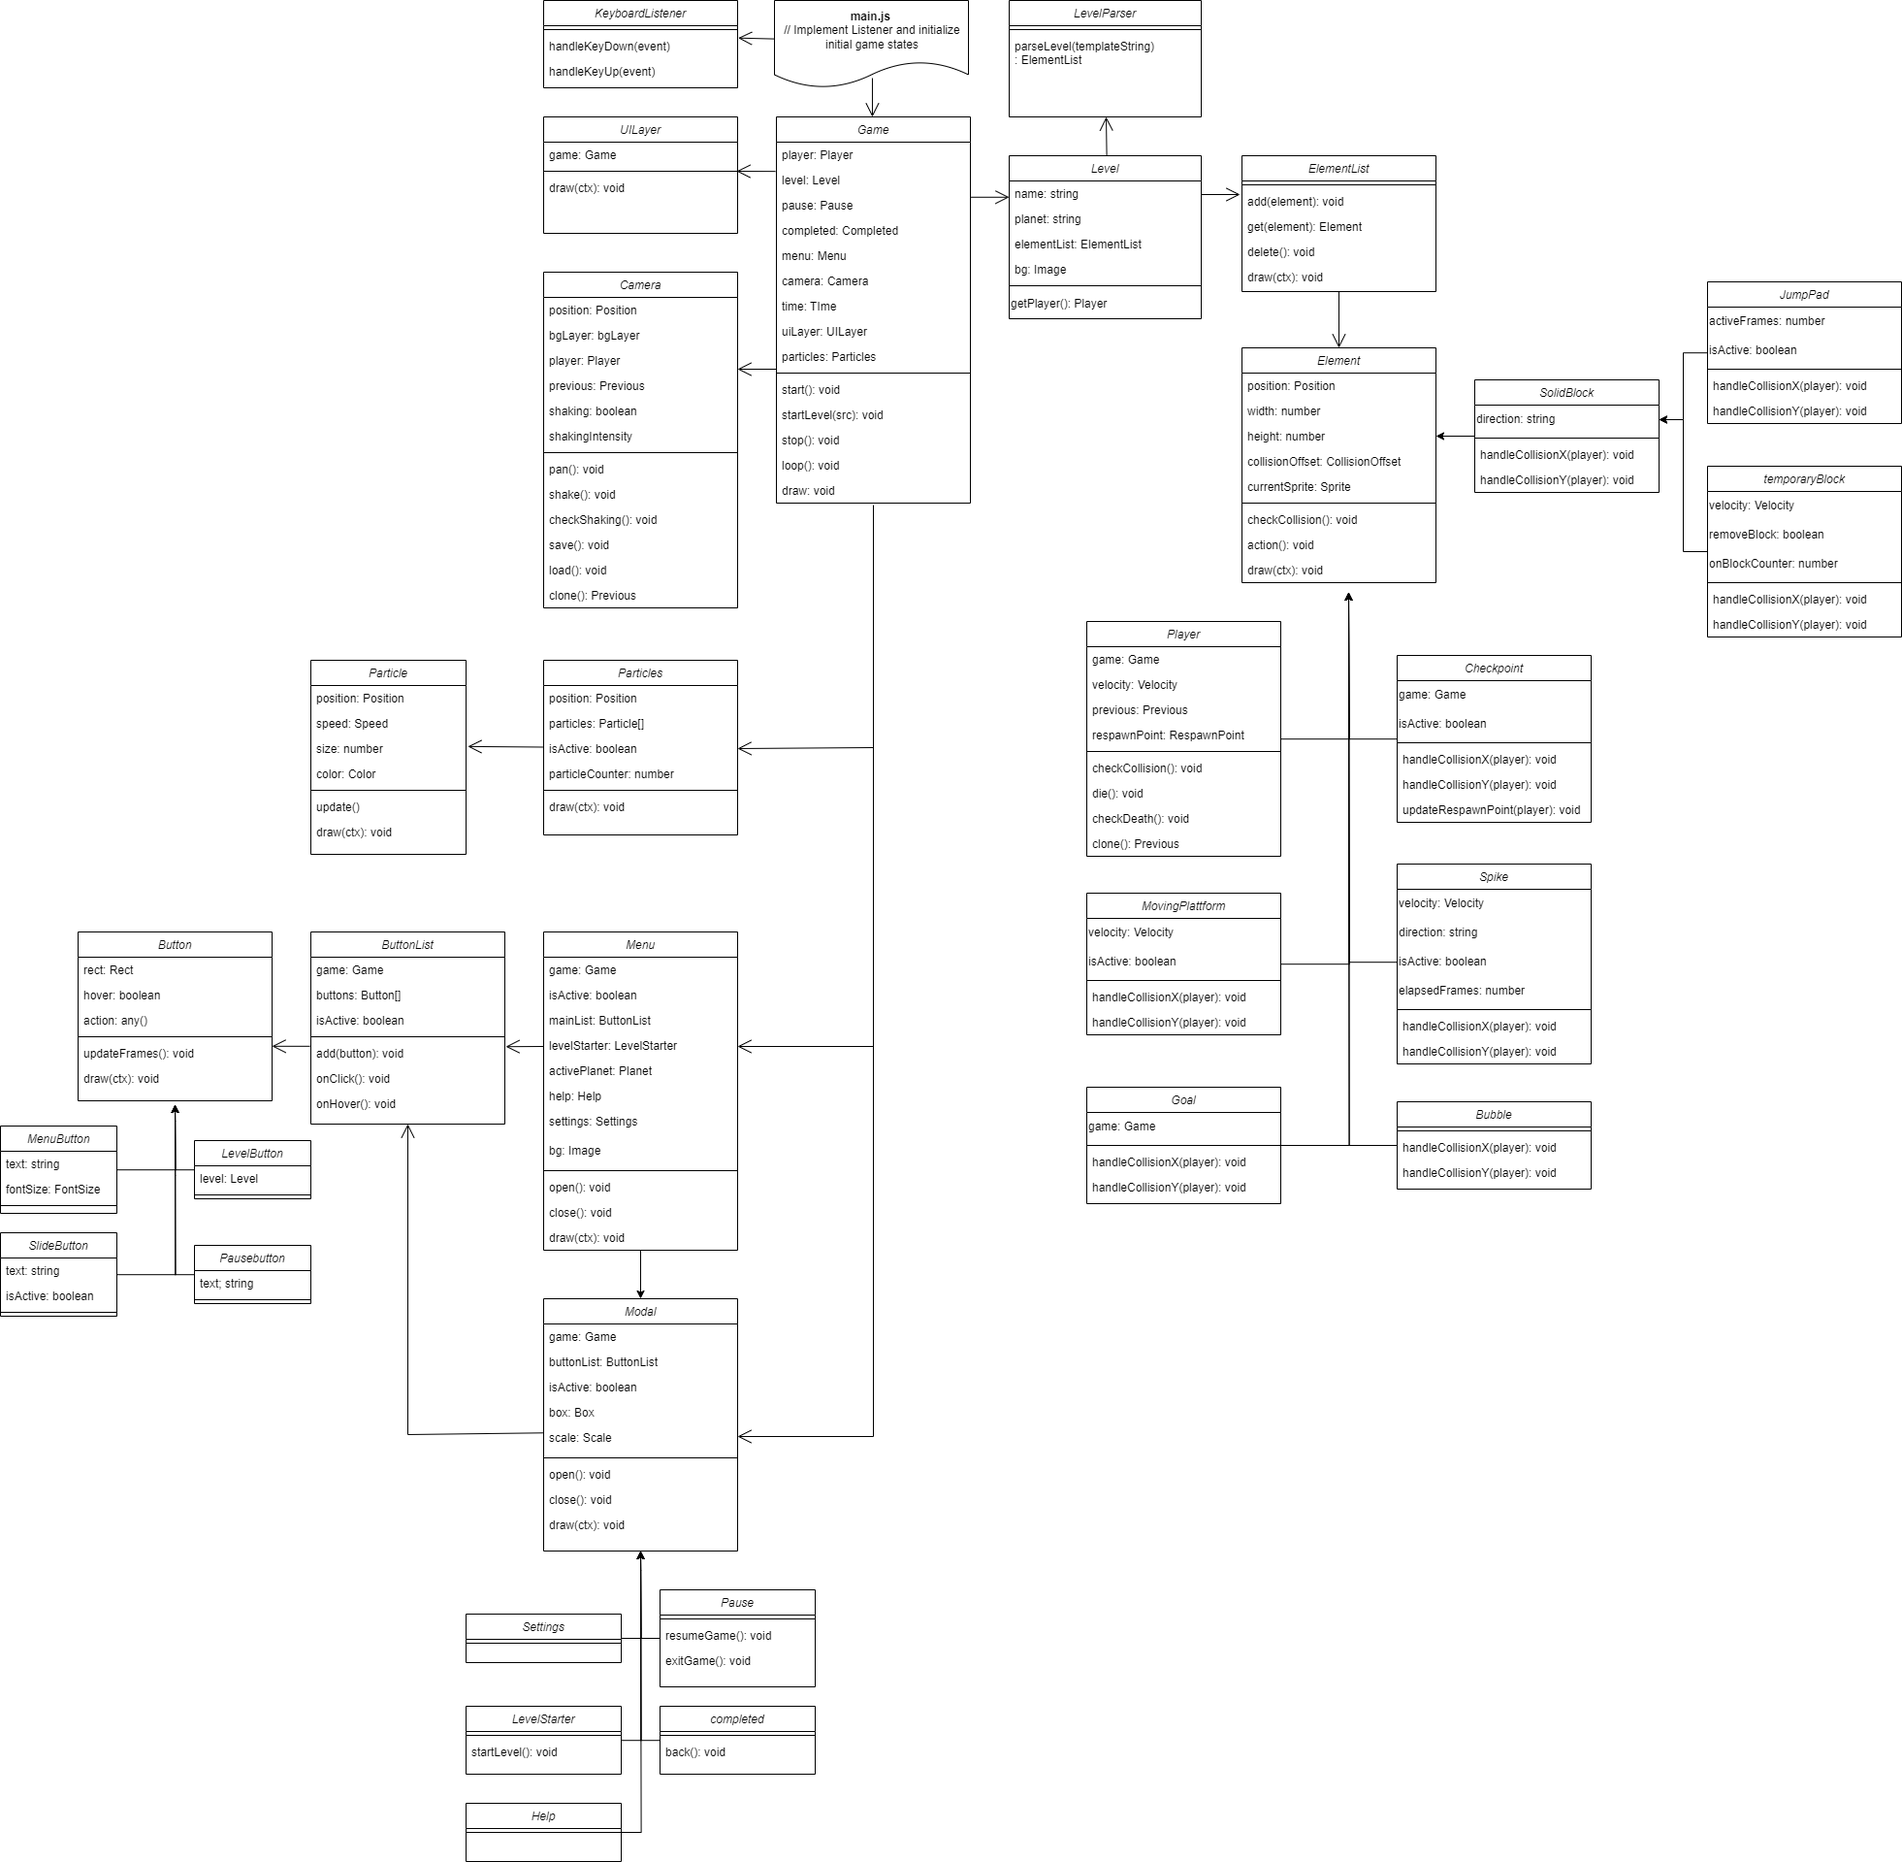
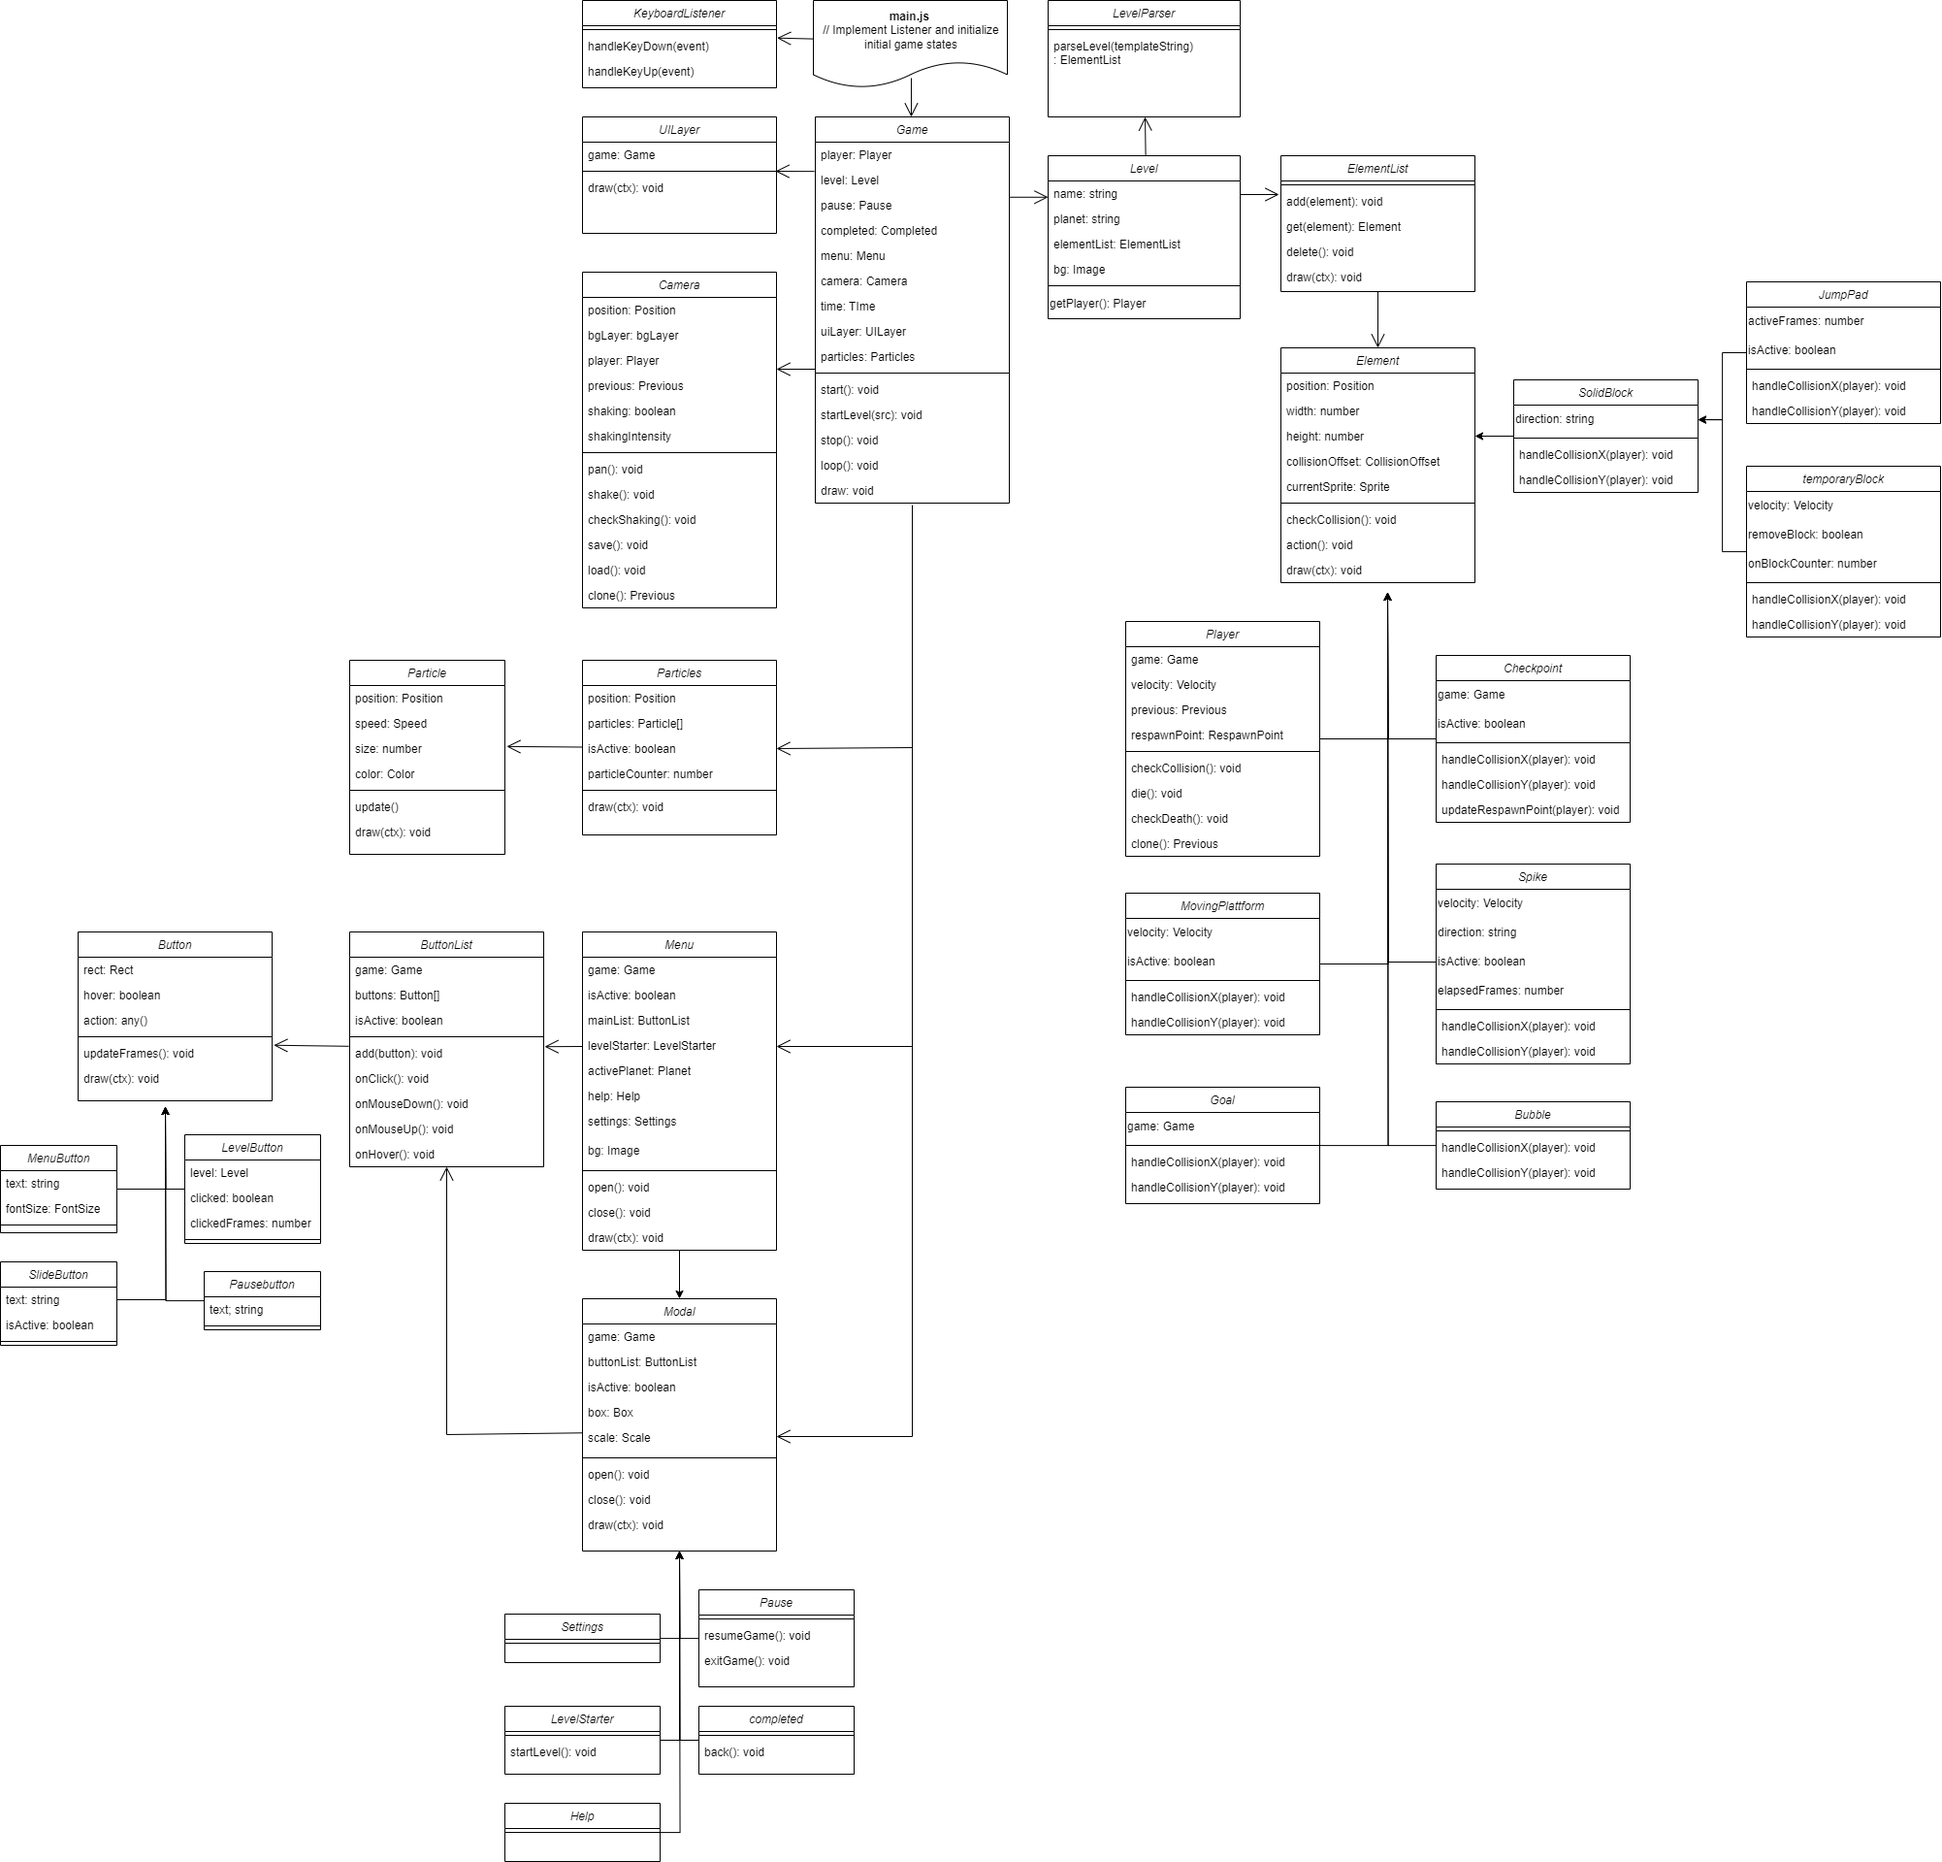
Implement new Level Selection, update uml

diff --git a/core/src/ui/button.js b/core/src/ui/button.js
@@ -1,3 +1,5 @@
+import { Screen, setCurrentScreen } from "../listener/store"
+
 export default class Button {
     constructor(action, x, y, width, height) {
         this.rect = {
@@ -84,15 +86,31 @@ export class LevelButton extends Button {
     constructor(action, x, y, level) {
         super(action, x, y, 30, 30, "")
 
-        this.canvas = level
         this.level = level
 
         this.strokeScale = 0
 
         this.increaseSize = true
+
+        this.clicked = false
+        this.clickedFrames = 0
     }
 
     draw(ctx) {
+        ++this.clickedFrames
+
+        if (!this.clicked) {
+            this.clickedFrames = 0
+        }
+
+        const progress = this.clickedFrames / 40
+
+        if (progress > 1) {
+            this.clickedFrames = 0
+            this.clicked = false
+            this.action()
+        }
+
         const circleCenter = {
             x: this.rect.position.x + this.rect.width / 2,
             y: this.rect.position.y + this.rect.height / 2,
@@ -117,28 +135,33 @@ export class LevelButton extends Button {
             }
         }
 
-        ctx.beginPath()
-
         ctx.save()
 
+        ctx.beginPath()
+        ctx.fillStyle = this.hover ? "#e9ecef" : "#f8f9fa"
         ctx.arc(
             circleCenter.x,
             circleCenter.y,
-            this.hover ? this.rect.width / 2 + 1 : this.rect.width / 2,
+            this.hover ? this.rect.width / 2 - 1 : this.rect.width / 2,
             0,
             2 * Math.PI,
             false
         )
-        ctx.fillStyle = this.hover ? "#e9ecef" : "#f8f9fa"
         ctx.fill()
 
         ctx.strokeStyle = "#adb5bd"
-        ctx.lineWidth = 2 + this.strokeScale * 3
+        ctx.lineWidth = this.hover ? 2 + this.strokeScale * 3 - 1 : 2 + this.strokeScale * 3
         ctx.stroke()
+        ctx.closePath()
+
+        ctx.beginPath()
+        ctx.arc(circleCenter.x, circleCenter.y, this.rect.width / 2, 0, 2 * progress * Math.PI)
+        ctx.strokeStyle = "#add8e6"
+        ctx.lineWidth = 4
+        ctx.stroke()
+        ctx.closePath()
 
         ctx.restore()
-
-        ctx.closePath()
     }
 }
 

diff --git a/core/src/ui/buttonList.js b/core/src/ui/buttonList.js
@@ -1,3 +1,5 @@
+import { LevelButton } from "./button"
+
 export default class ButtonList {
     constructor(canvas) {
         this.canvas = canvas
@@ -6,6 +8,8 @@ export default class ButtonList {
         this.buttons = []
 
         this.canvas.addEventListener("click", (e) => this.onClick(e))
+        this.canvas.addEventListener("mousedown", (e) => this.onMouseDown(e))
+        this.canvas.addEventListener("mouseup", (e) => this.onMouseUp(e))
         this.canvas.addEventListener("mousemove", (e) => this.onHover(e))
     }
 
@@ -17,6 +21,8 @@ export default class ButtonList {
         if (!this.isActive) return
 
         for (const button of this.buttons) {
+            if (button instanceof LevelButton) continue
+
             const mousePos = this.getMousePos(this.canvas, e)
 
             if (this.isInside(mousePos, button.rect)) {
@@ -24,6 +30,32 @@ export default class ButtonList {
 
                 break
             }
+        }
+    }
+
+    onMouseDown(e) {
+        if (!this.isActive) return
+
+        for (const button of this.buttons) {
+            if (!(button instanceof LevelButton)) continue
+
+            const mousePos = this.getMousePos(this.canvas, e)
+
+            if (this.isInside(mousePos, button.rect)) {
+                button.clicked = true
+
+                break
+            }
+        }
+    }
+
+    onMouseUp(e) {
+        if (!this.isActive) return
+
+        for (const button of this.buttons) {
+            if (!(button instanceof LevelButton)) continue
+
+            button.clicked = false
         }
     }
 

diff --git a/core/src/planets.js b/core/src/planets.js
@@ -1,12 +1,15 @@
+import Sprite from "./element/sprite"
+import ButtonList from "./ui/buttonList"
+
 /**
  * @typedef {Object} Planet
  * @property {number} gravity
- * @property {string} backgroundImage
- * @property {string} tileset
+ * @property {Sprite} bg
+ * @property {Sprite} bgTop
+ * @property {Sprite} tileset
+ * @property {Sprite} sprite
+ * @property {ButtonList} buttonList
  */
-
-import Sprite from "./element/sprite"
-import ButtonList from "./ui/buttonList"
 
 /** @typedef {Object.<string, Planet>} PlanetMap */
 
@@ -15,22 +18,25 @@ export function getPlanets(canvas) {
     return {
         moon: {
             gravity: 0,
-            backgroundImage: "",
-            tileset: "",
+            bg: new Sprite(),
+            bgTop: new Sprite(),
+            tileset: new Sprite(),
             sprite: new Sprite("bg/moon.png", 300, 300, 300, 300),
             buttonList: new ButtonList(canvas),
         },
         mars: {
             gravity: 0,
-            backgroundImage: "",
+            bg: new Sprite(),
+            bgTop: new Sprite(),
             tileset: "",
             sprite: new Sprite("bg/mars.png", 339, 339, 339, 339),
             buttonList: new ButtonList(canvas),
         },
         saturn: {
             gravity: 0,
-            backgroundImage: "",
-            tileset: "",
+            bg: new Sprite(),
+            bgTop: new Sprite(),
+            tileset: new Sprite(),
             sprite: new Sprite("bg/saturn.png", 520, 456, 520, 456),
             buttonList: new ButtonList(canvas),
         },

diff --git a/core/src/ui/menu.js b/core/src/ui/menu.js
@@ -1,7 +1,6 @@
 import { LevelButton, MenuButton, SlideButton } from "./button"
 import ButtonList from "./buttonList"
 import { Screen, setCurrentScreen } from "../listener/store"
-import LevelStarter from "./modal/levelStarter"
 import Sprite from "../element/sprite"
 import Help from "./modal/help"
 import Settings from "./modal/settings"
@@ -53,6 +52,7 @@ export default class Menu {
             () => this.selectLevel(levelButton),
             400,
             320,
+            this,
             "Level 1"
         )
 
@@ -195,7 +195,9 @@ export default class Menu {
     }
 
     selectLevel(button) {
-        this.levelStarter = new LevelStarter(this, this.game, this.canvas, button.level)
-        this.levelStarter.open()
+        this.close()
+
+        setCurrentScreen(Screen.Game)
+        this.game.startLevel(button.level)
     }
 }

diff --git a/core/src/ui/modal/help.js b/core/src/ui/modal/help.js
@@ -52,7 +52,7 @@ export default class Help extends Modal {
         ctx.textAlign = "center"
         ctx.textBaseline = "middle"
 
-        ctx.fillText("Controls", this.box.position.x + this.width / 2, this.box.position.y + 40)
+        ctx.fillText("Help", this.box.position.x + this.width / 2, this.box.position.y + 40)
 
         this.buttonList.draw(ctx)
 
